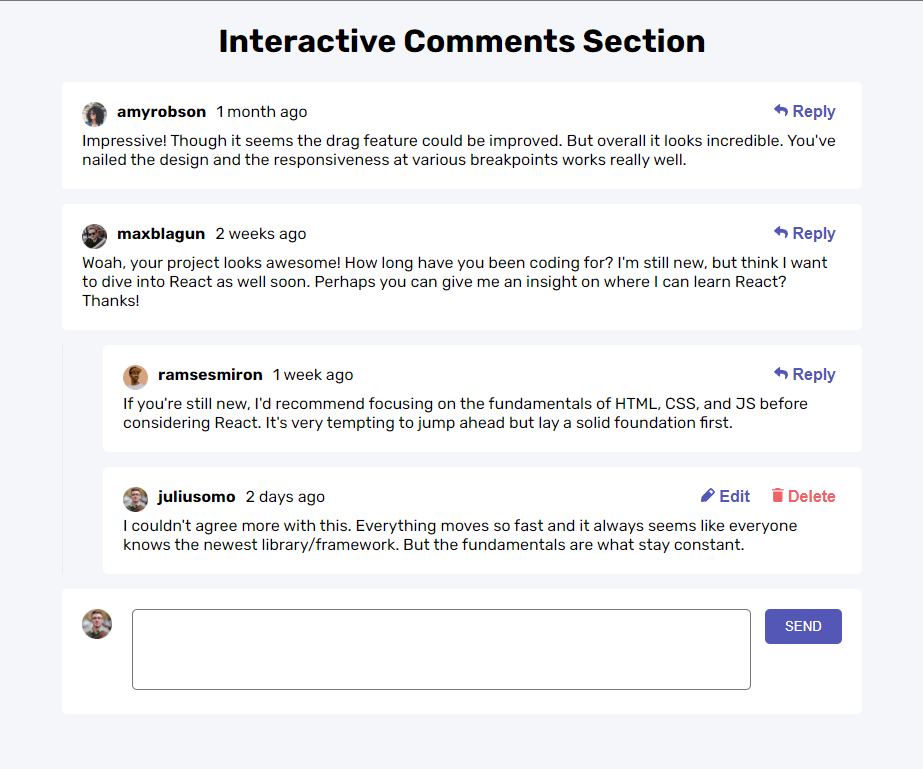
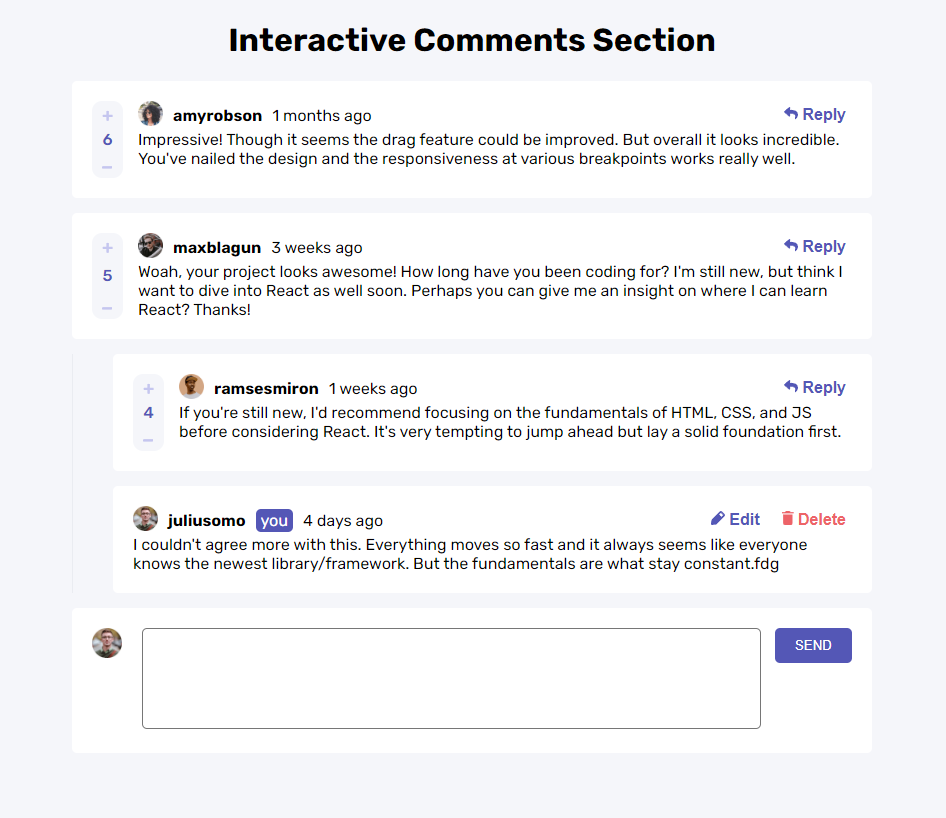
updated mobile view

diff --git a/src/component/Comment.js b/src/component/Comment.js
@@ -4,6 +4,7 @@ import AddComment from './AddComment';
 import '../styles/Comment.css';
 import DeleteModal from './DeleteModal';
 import timeSince from '../utils/time-since';
+import CommentScore from './CommentScore';
 export default function Comment({
 	commentInfo,
 	currentUser,
@@ -40,29 +41,18 @@ export default function Comment({
 		setEditing(false);
 	};
 
-	const incrementScore = () => {
-		updateCommmentScore({ id: commentInfo.id, type, increment: true });
-	};
-
-	const decrementScore = () => {
-		updateCommmentScore({ id: commentInfo.id, type, increment: false });
-	};
-
 	return (
 		<>
 			<div className='comment'>
 				<div className='comment-main'>
-					{!isCurrentUser && (
-						<div className='comment-score'>
-							<button onClick={incrementScore}>
-								<img src='/images/icon-plus.svg' alt='' />
-							</button>
-							<div className='score-view'>{commentInfo.score}</div>
-							<button onClick={decrementScore}>
-								<img src='/images/icon-minus.svg' alt='' />
-							</button>
-						</div>
-					)}
+					<CommentScore
+						id={commentInfo.id}
+						type={type}
+						score={commentInfo.score}
+						updateCommmentScore={updateCommmentScore}
+						desktop={true}
+					/>
+
 					<div className='comment-container'>
 						<div className='comment-header'>
 							<div className='comment-user-avatar'>
@@ -88,6 +78,7 @@ export default function Comment({
 								replyHandler={replyHandler}
 								editHandler={editHandler}
 								deleteHandler={deleteHandler}
+								desktop={true}
 							/>
 						</div>
 						{editing ? (
@@ -102,13 +93,30 @@ export default function Comment({
 										}}
 										rows='5'></textarea>
 								</div>
-								<div className='comment-footer'>
+								<div className='comment-edit-footer'>
 									<button onClick={updateHandler}>Update</button>
 								</div>
 							</>
 						) : (
 							<div className='comment-content'>{commentInfo.content}</div>
 						)}
+						<div className='comment-footer mobile-only'>
+							<CommentScore
+								id={commentInfo.id}
+								type={type}
+								score={commentInfo.score}
+								updateCommmentScore={updateCommmentScore}
+								desktop={false}
+							/>
+
+							<CommentBtn
+								isCurrentUser={isCurrentUser}
+								replyHandler={replyHandler}
+								editHandler={editHandler}
+								deleteHandler={deleteHandler}
+								desktop={false}
+							/>
+						</div>
 					</div>
 				</div>
 			</div>

diff --git a/src/styles/Comment.css b/src/styles/Comment.css
@@ -71,13 +71,13 @@
 	border-left: 1px solid var(--light-gray);
 }
 
-.comment-footer {
+.comment-edit-footer {
 	display: flex;
 	flex-direction: row;
 	justify-content: flex-end;
 }
 
-.comment-footer button {
+.comment-edit-footer button {
 	border: none;
 	border-radius: 5px;
 	color: var(--white);
@@ -86,24 +86,13 @@
 	cursor: pointer;
 }
 
-.comment-main .comment-score {
-	background-color: var(--very-light-gray);
-	border-radius: 10px;
-}
-
-.comment-main .comment-score button {
-	border: none;
-	border-radius: 5px;
-	padding: 5px 10px;
-	background-color: transparent;
-	cursor: pointer;
-	font-weight: 800;
-	color: var(--white);
-}
-
-.comment-main .comment-score .score-view {
+.comment-footer {
 	display: flex;
-	justify-content: center;
-	color: var(--moderate-blue);
-	font-weight: 500;
+	flex-direction: row;
+}
+
+@media (max-width: 500px) {
+	.comment-container {
+		gap: 10px;
+	}
 }

diff --git a/src/styles/CommentScore.css b/src/styles/CommentScore.css
@@ -1,0 +1,36 @@
+.comment-main .comment-score {
+	display: flex;
+	flex-direction: column;
+	justify-content: space-between;
+	background-color: var(--very-light-gray);
+	border-radius: 10px;
+}
+
+.comment-main .comment-score button {
+	border: none;
+	border-radius: 5px;
+	padding: 5px 10px;
+	background-color: transparent;
+	cursor: pointer;
+	font-weight: 800;
+	color: var(--white);
+}
+
+.comment-main .comment-score .score-view {
+	display: flex;
+	justify-content: center;
+	color: var(--moderate-blue);
+	align-items: center;
+	font-weight: 500;
+}
+
+.comment-main .comment-score.mobile-only {
+	flex-direction: row;
+}
+
+@media (max-width: 500px) {
+	.comment-main .comment-score button {
+		display: flex;
+		align-items: center;
+	}
+}

diff --git a/src/component/CommentScore.js b/src/component/CommentScore.js
@@ -1,0 +1,29 @@
+import React from 'react';
+import '../styles/CommentScore.css';
+export default function CommentScore({
+	id,
+	type,
+	score,
+	updateCommmentScore,
+	desktop,
+}) {
+	const incrementScore = () => {
+		updateCommmentScore({ id, type, increment: true });
+	};
+
+	const decrementScore = () => {
+		updateCommmentScore({ id, type, increment: false });
+	};
+	return (
+		<div
+			className={`comment-score ${desktop ? 'desktop-only' : 'mobile-only'}`}>
+			<button onClick={incrementScore}>
+				<img src='/images/icon-plus.svg' alt='' />
+			</button>
+			<div className='score-view'>{score}</div>
+			<button onClick={decrementScore}>
+				<img src='/images/icon-minus.svg' alt='' />
+			</button>
+		</div>
+	);
+}

diff --git a/src/component/CommentBtn.js b/src/component/CommentBtn.js
@@ -5,9 +5,13 @@ export default function CommentBtn({
 	replyHandler,
 	editHandler,
 	deleteHandler,
+	desktop, // true if for desktop, or false for mobile
 }) {
 	return (
-		<div className='comment-btn-container'>
+		<div
+			className={`comment-btn-container ${
+				desktop ? 'desktop-only' : 'mobile-only'
+			}`}>
 			<div
 				className={`comment-btn-reply ${isCurrentUser ? 'display-none' : ''}`}>
 				<button onClick={replyHandler}>

diff --git a/src/styles/App.css b/src/styles/App.css
@@ -11,6 +11,23 @@
 	display: none !important;
 }
 
+.desktop-only {
+	@media (max-width: 500px) {
+		display: none !important;
+	}
+}
+
+.mobile-only {
+	@media (min-width: 501px) {
+		display: none !important;
+	}
+}
+
+button:hover {
+	opacity: 0.7;
+	cursor: pointer;
+}
+
 .modal-wrapper {
 	position: fixed;
 	z-index: 100;
